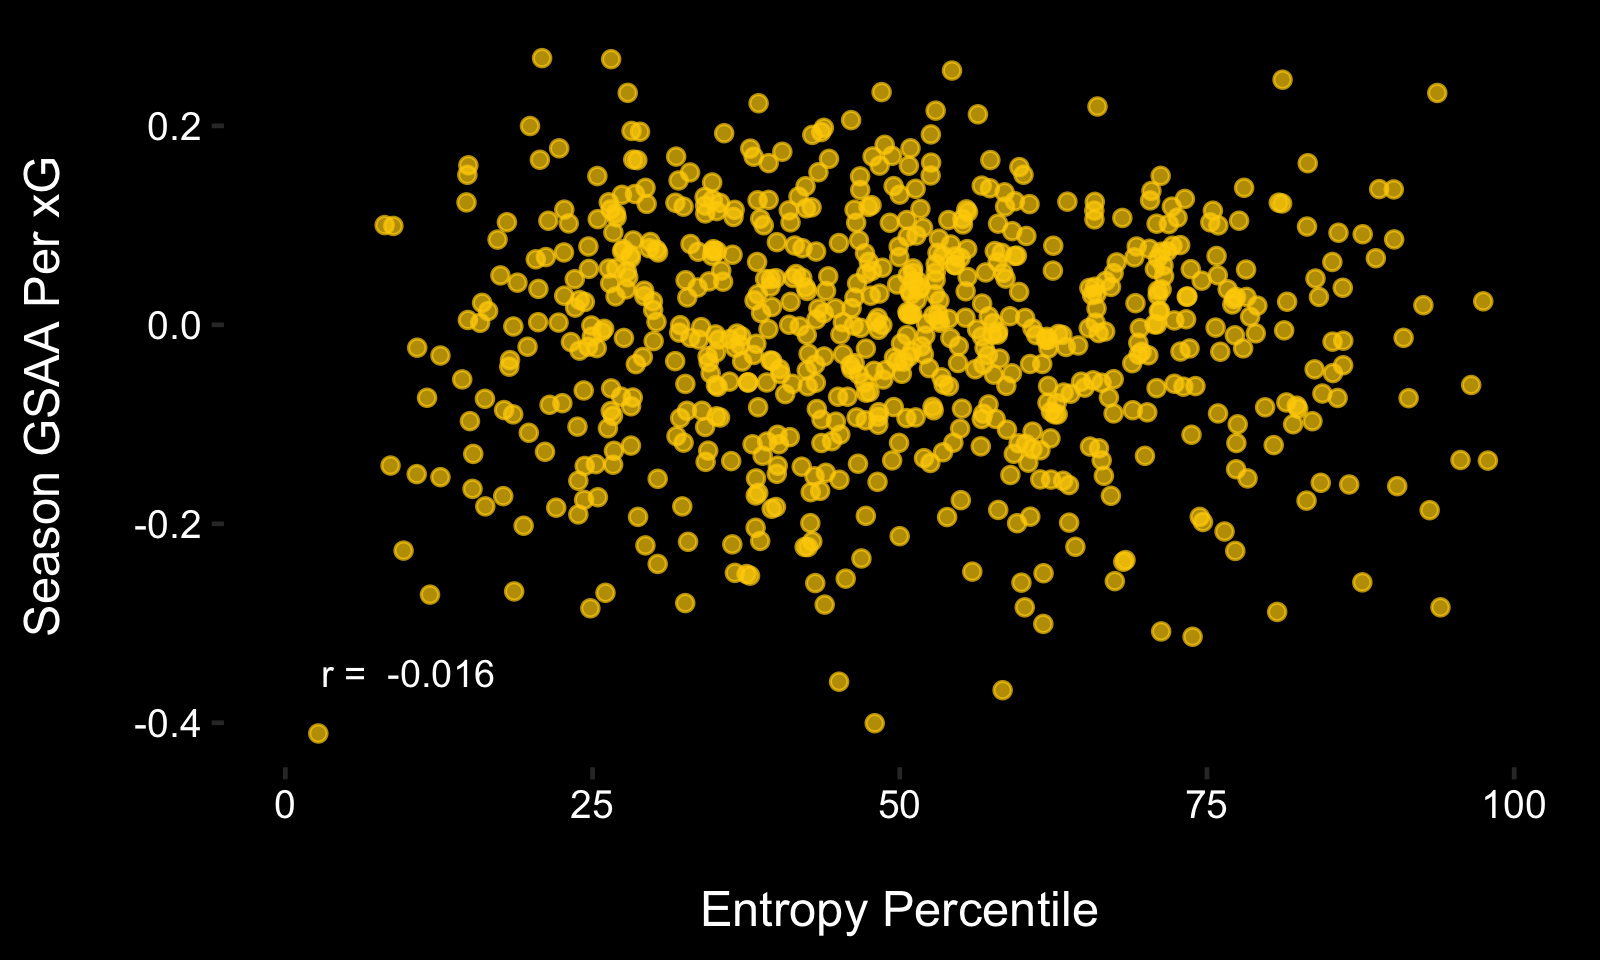
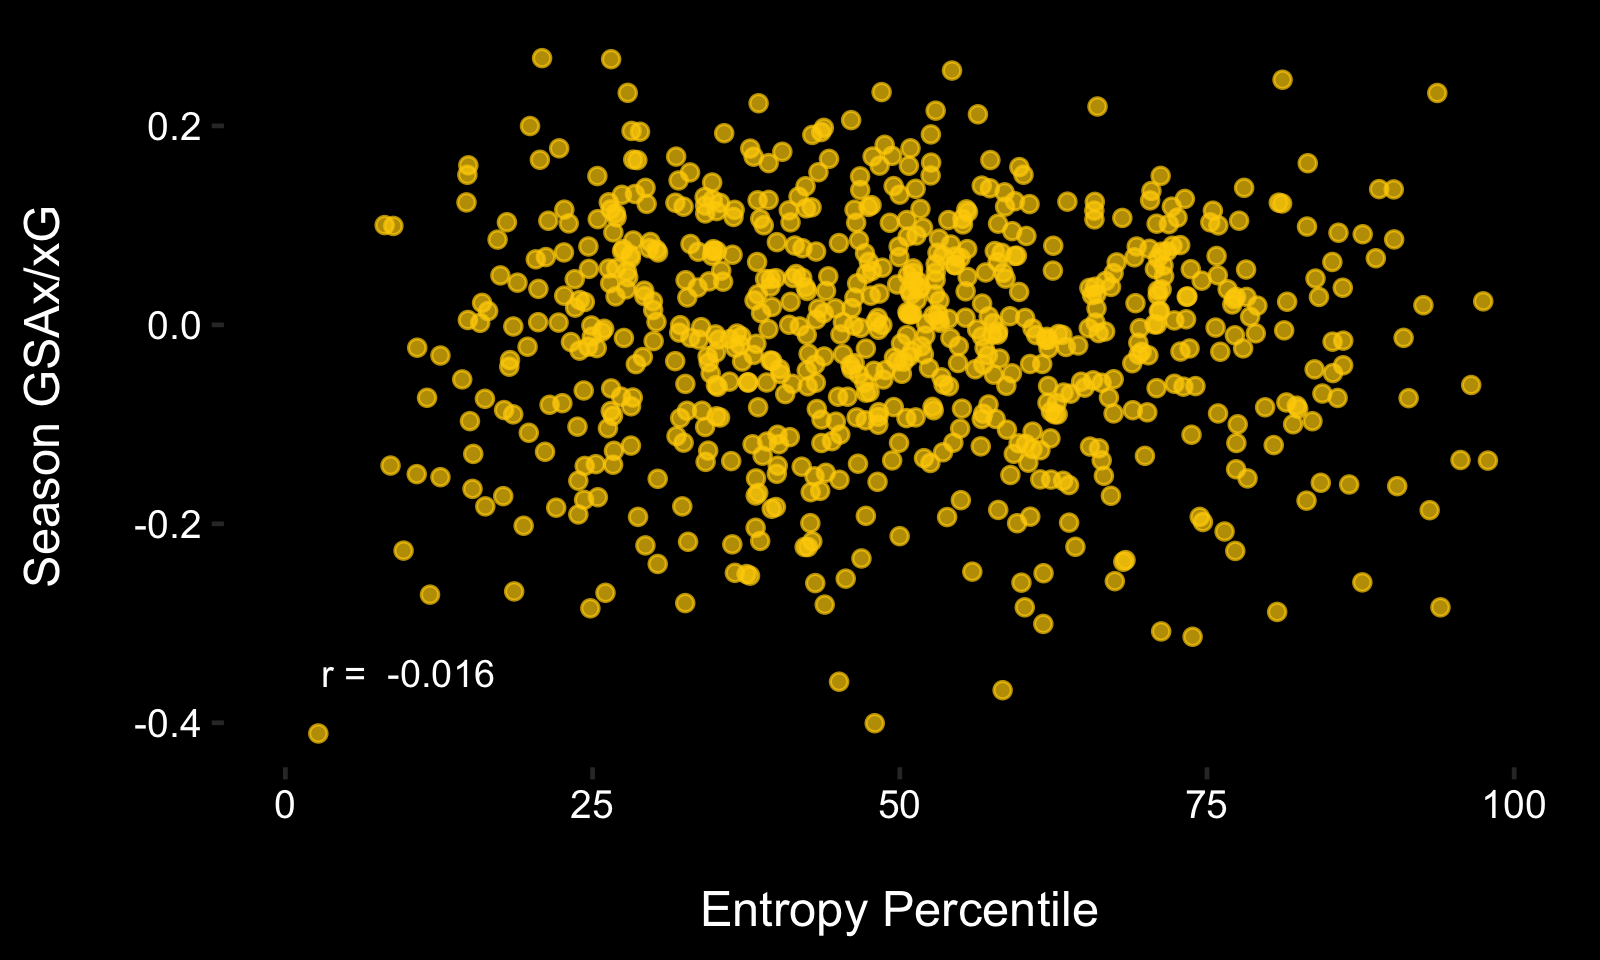
change plot title

Changed region(s): [[0.0, 0.1562, 0.0625, 0.6562]]

diff --git a/_posts/2022-04-02-goalie-consistency-3.md b/_posts/2022-04-02-goalie-consistency-3.md
@@ -19,7 +19,7 @@ Now that entropy has been normalized, it can be compared from goalie-to-goalie.
 <p>
 Note: A goalie-season must include at least 800 shots (roughly 20 games) to be included in the season comparisons, and goalie-career must include at least 5 seasons, facing at least 800 shots in each, to be included in the career comparisons.
 </p>
-<h5>Goalie-season consistency does not have an effect on overall performance (Goals Saved Above Average per Expected Goal).</h5>
+<h5>Goalie-season consistency does not have an effect on overall performance.</h5>
 <p>
 <div style="text-align: center"> <img src="https://spazznolo.github.io/figs/goalie-three-one.png" width="60%" length="150"/></div>
 </p>
